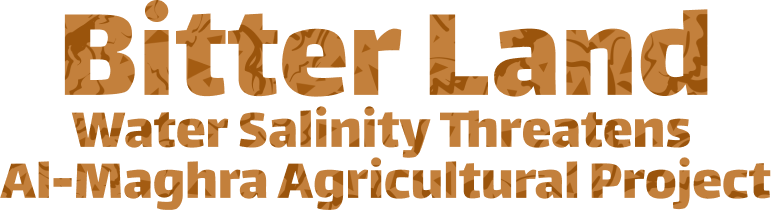
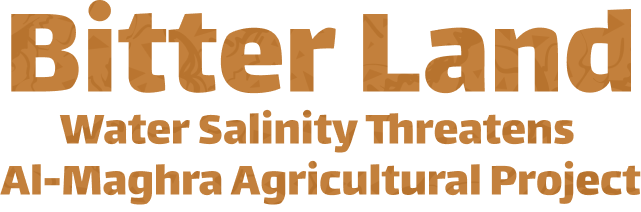
fix(maghara): last round of UI audit

Changed region(s): [[0.0, 0.0, 0.9984, 0.4528], [0.0, 0.7358, 1.0, 0.9906], [0.0936, 0.5094, 0.9048, 0.7358]]

diff --git a/src/html/components/almaghara/text-image-3/parts/en/content.part.html b/src/html/components/almaghara/text-image-3/parts/en/content.part.html
@@ -1,6 +1,6 @@
 <div class="container p-relative z-1">
     <div class="row">
-        <div class="col-lg-6 col-12">
+        <div class="col-lg-6 offset-lg-6 col-12">
             <h6 class="animate fade-in d-start">Saltwater Reclamation</h6>
             <p class="animate fade-in d-start">
                 In December 2015 4 , the government announced the commencement of the 1.5 Million

diff --git a/src/html/components/almaghara/text-image-1/index-en.part.html b/src/html/components/almaghara/text-image-1/index-en.part.html
@@ -2,7 +2,7 @@
     <img src="webp/almaghara/portrait-1.webp" loading="lazy" class="sec-image">
     <div class="container d-relative z-1 p-relative">
         <div class="row">
-            <div class="col-lg-4 col-md-8 col-12">
+            <div class="col-lg-5 col-md-8 col-12">
                 @@include('./parts/en/text.part.html')
             </div>
         </div>

diff --git a/src/html/pages/ar/almaghara.part.html b/src/html/pages/ar/almaghara.part.html
@@ -23,7 +23,7 @@
     "logo": "webp/global/logo.webp",
     "btnImage": "webp/global/en.webp",
     "homeLink": "https://muwatin.net/",
-    "btnLink": "https://muwatin.net/en/69377/"
+    "btnLink": "https://muwatin.net/53293/agri/en/p3"
     })
 
     @@include("../../components/almaghara/hero/index-ar.part.html")

diff --git a/src/html/pages/en/almaghara.part.html b/src/html/pages/en/almaghara.part.html
@@ -21,7 +21,7 @@
     "logo": "webp/global/logo.webp",
     "btnImage": "webp/global/ar.webp",
     "homeLink": "https://muwatin.net/",
-    "btnLink": "https://muwatin.net/ar/69377/"
+    "btnLink": "https://muwatin.net/53293/agri/ar/p3"
     })
 
     @@include("../../components/almaghara/hero/index-en.part.html")

diff --git a/src/scss/components/almaghara/_image-caption-2.scss b/src/scss/components/almaghara/_image-caption-2.scss
@@ -31,9 +31,9 @@ section.image-caption-2 {
   }
 
   @media screen and (min-width: 992px) {
-    height: 100vh;
+    min-height: 100vh;
     padding-top: h.rem(176);
-    padding-bottom: 0;
+    padding-bottom: h.rem(176);
 
     .gradient-top {
       height: h.rem(358);

diff --git a/src/scss/components/almaghara/_text-image-1.scss b/src/scss/components/almaghara/_text-image-1.scss
@@ -6,7 +6,7 @@ section.text-image-1 {
   .sec-image {
     position: relative;
     top: 0;
-    inset-inline-end: 0;
+    @include h.appDirValue(inset-inline-end, -100px, 0);
     object-fit: contain;
     width: auto;
     margin-bottom: h.rem(20);

diff --git a/src/scss/components/almaghara/_dynamic-content-2.scss b/src/scss/components/almaghara/_dynamic-content-2.scss
@@ -32,7 +32,7 @@ section.dynamic-content-2 {
   @media screen and (min-width: 992px) {
     padding: h.rem(67) 0;
     height: 100vh;
-    min-height: h.rem(800);
+    min-height: h.rem(1200);
 
     p.main-content {
       font-size: h.rem(24);
